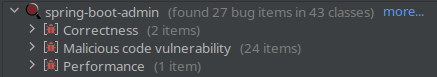
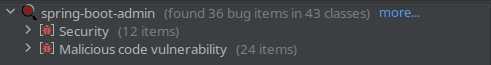
Finished report of CVE-2020-19704

Changed region(s): [[0.0, 0.0308, 0.9817, 0.9538], [0.476, 0.3077, 0.5057, 0.3385]]

diff --git a/CVE-2020-19704/README.md b/CVE-2020-19704/README.md
@@ -207,20 +207,20 @@ In the **Docker** directory many configuration files can be found, here I'm goin
 Static Code Analysis on this project was performed using two different tools: the first one is **Spotbugs** which is integrated as a plugin within IntelliJ IDE, the second one is **SonarQube** which was deployed locally as a Docker Container. SonarQube analyses can be launched against projects by using a specific Maven or Gradle string provided by the tool itself; once the analysis is completed results can be seen in a Web Application made available by SonarQube and accessible at **localhost:9000**
 
 #### **Spotbugs**
-Spotbugs detected three classes of bugs as shown in this picture
+Spotbugs detected two classes of bugs as shown in this picture
 
 ![Spotbugs main](./images/spa_spotbugs_main.png)
 
 </br>
 
 
-In our analysis we will only take into consideration the **Malicious code vulnerabilities** that in turn can be divided in the two following categories:
+- **Malicious Code Vulnerabilities**
 
-1.  **May expose internal representation by incorporating reference to mutable object**
+    1.  **May expose internal representation by incorporating reference to mutable object**
 
-2. **May expose internal representation by returning reference to mutable object**
+    2. **May expose internal representation by returning reference to mutable object**
 
-These are two very common bug categories that spotbugs usually flags in a project; a description of the latters has already been provided in this [README](https://github.com/RunCor399/Project_2_SVT_Arcolini_Colotti/tree/main/CVE-2021-42392), section **Static Analysis Results > Spotbugs**.
+    These are two very common bug categories that spotbugs usually flags in a project; a description of the latters has already been provided in this [README](https://github.com/RunCor399/Project_2_SVT_Arcolini_Colotti/tree/main/CVE-2021-42392), section **Static Analysis Results > Spotbugs**.
 
 </br>
 
@@ -237,6 +237,34 @@ For reference, here below there is an example of each of the two bugs in the cur
 - *May expose internal representation by returning reference to mutable object*
 
 ![Spotbugs_bug_2](./images/spa_spotbugs_external.png)
+
+</br></br>
+
+- **Security Vulnerabilities**
+
+In this screenshot we can see that Spotbugs detected several potential security bugs divided in 5 categories
+</br>
+
+![Spotbugs Security](./images/spa_spotbugs_security.png)
+
+</br>
+
+This analysis will only give a further look at the "**Potential XSS in Servlet**" since most of the bugs related to the other categories have also been explained in [SonarQube Security Hotspots Analysis](#security-hotspots-analysis)
+
+</br>
+
+From the picture below we can see the interesting piece of code flagged by Spotbugs:
+
+![Spotbugs sec1](./images/spa_spotbugs_sec1.png)
+
+</br>
+
+The reason why it gets detected as a potential XSS is because there is no sanitization of the response sent to the client through the method "**response.getWriter().println(JsonUtil.toJsonString(restResp))**".
+
+To understand if this is a real Cross-site scripting vulnerability we need to find out if any user-provided input could get returned inside **restResp** object.
+In line 33 we can immediately see how the content of **restResp** is not dangerous since it only contains **two hardcoded values**: a code and a message.
+
+Because of this we have established that this was just a Spotbugs **false positive**
 
 </br></br>
 
@@ -380,11 +408,23 @@ An additional way to exploit the framework has been provided in **exploit.py** s
 
 
 ### **Analysis of the Exploitation Outcome**
-Explain other kind of payloads
-- get cookies
-- deface page
-- redirect
+As we saw from the previous attack we were able to install a sort of keylogger capable of loggin every key pressed by users, but this is not the only type of attack that could be performed exploiting a **Stored XSS** vulnerability.
+
+Among the many attacks the following ones are worth a mention:
+
+- **Cookie Stealing**: a Javascript payload can easily send to an attacker-controlled server the user's cookies stored client-side. This may also lead to **session hijacking** if among the cookies there are also **session cookies**.
+
+- **Phishing**: The attacker can use an XSS payload to create a fake login form that looks like the site's legitimate login form and trick the user into entering their login credentials.
+
+- **Defacement**: The attacker can use an XSS payload to replace the legitimate content of the site with their own content
 
 
 ## **Possible Security Patch**
-- sanitize input, show how
+To patch this vulnerability it is enough to sanitize the input received by the user when he's editing one of the resources.
+
+In order to fix the code to do so I had to change the behaviour of the **edit** method as follows:
+
+![Edit method](./images/spa_fixed_xss.png)
+
+The original code was directly mapping the request body to a Resource object and passing it as a parameter to the **resourceService.edit()** method (line 78)</br>
+I've modified the code to escape the three fields provided by the user that were vulnerable to a stored cross-site scripting (**url**, **name** and **remark**) using the method **StringEscapeUtils.escapeHtml4()** provided by the library **org.apache.commons**
